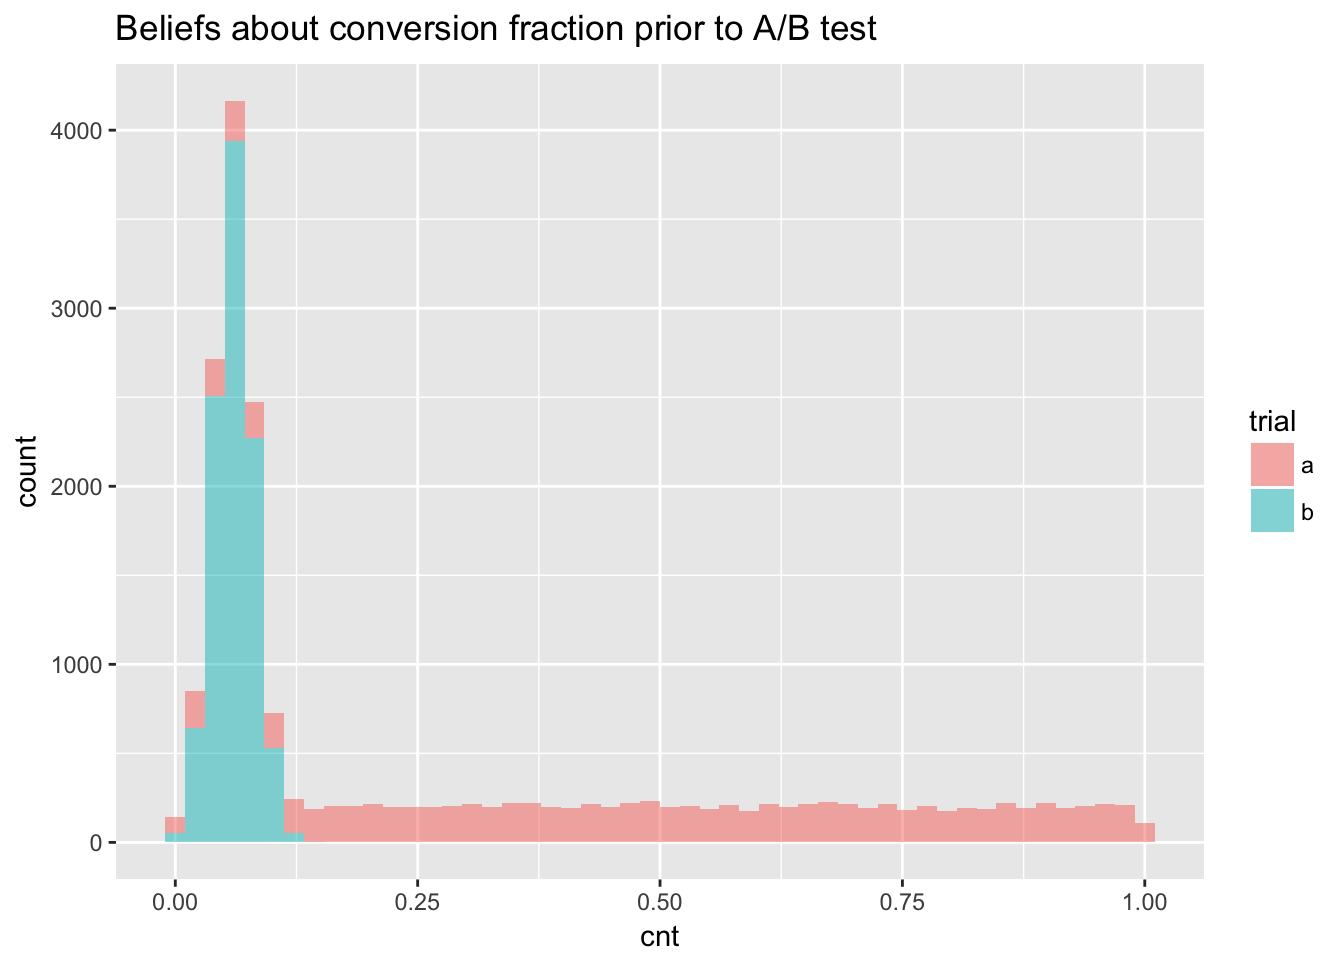
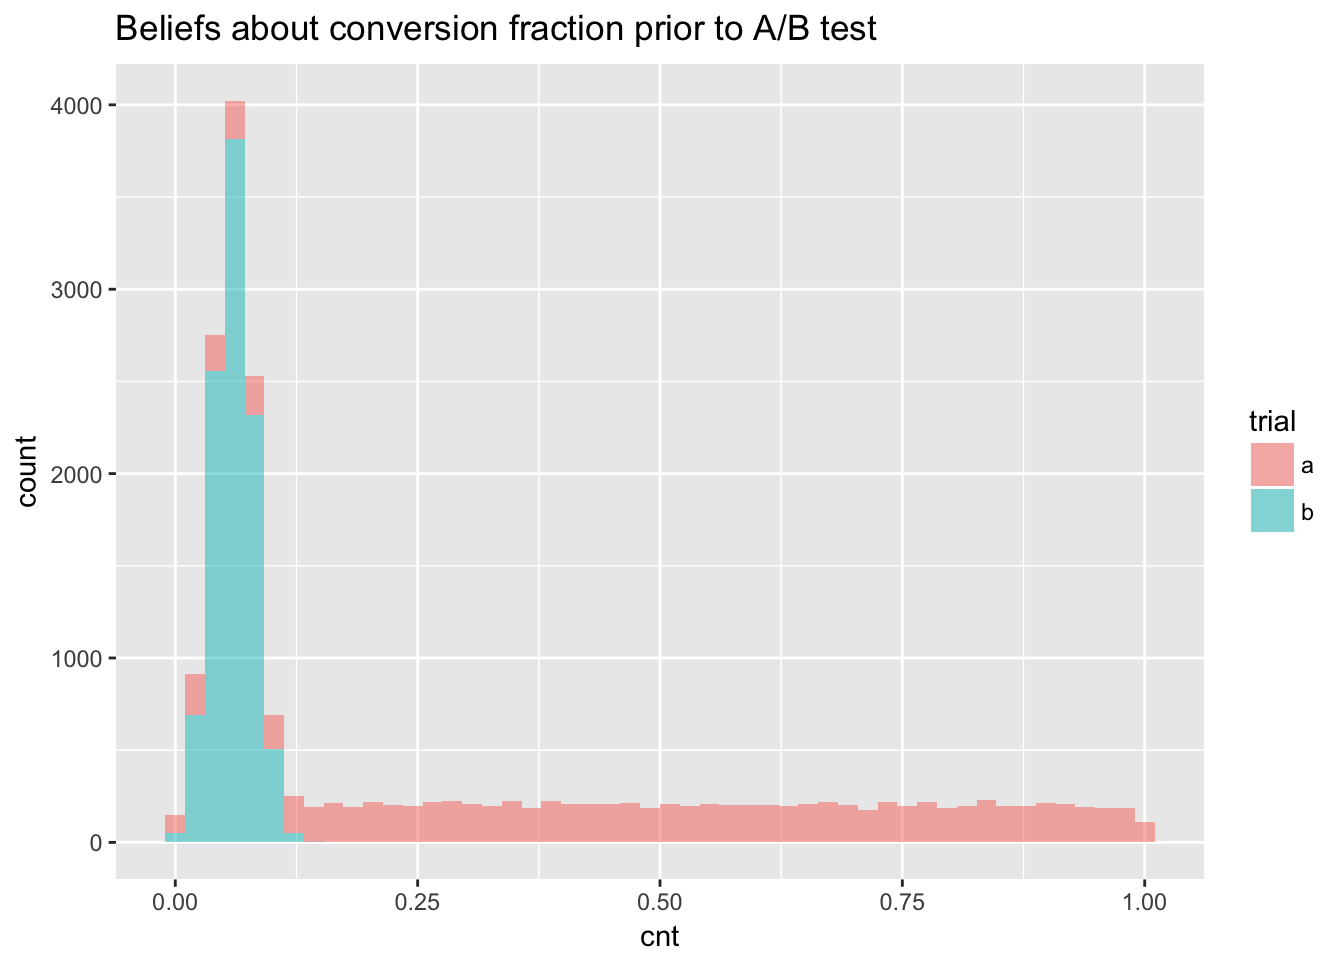
Add more to Advantager

diff --git a/public/2017/11/11/timeseries-analysis-using-r-and-advantager/index.html b/public/2017/11/11/timeseries-analysis-using-r-and-advantager/index.html
@@ -19,6 +19,11 @@
 
 
 
+
+<link href='//cdn.bootcss.com/highlight.js/9.11.0/styles/github.min.css' rel='stylesheet' type='text/css' />
+
+
+
 <link rel="stylesheet" href="../../../../css/fonts.css" media="all">
 <link rel="stylesheet" href="../../../../css/main.css" media="all">
 
@@ -60,7 +65,7 @@
 
   <article class="article">
     
-    <span class="article-duration">0 min read</span>
+    <span class="article-duration">2 min read</span>
     
 
     <h1 class="article-title">Timeseries Analysis Using R and Advantager</h1>
@@ -70,7 +75,38 @@
     
 
     <div class="article-content">
-      
+      <p>In the past, the best way to get stock prices was to use either Google Finance or Yahoo Finance data streams. These have since become difficult to keep up to date and thus another outlet to get this information is AlphaVantager. Following is a simple R implementation to get up to date data. You will be able to thus use this to find the information.</p>
+<p>Above we provide two different libraries that will give us the functionality we need.</p>
+<pre class="r"><code>symbol &lt;- &quot;BTC&quot;
+av_api_key(advantagerKey)
+data &lt;- av_get(symbol = symbol,market = &quot;CNY&quot;, av_fun  = &quot;DIGITAL_CURRENCY_DAILY&quot;) </code></pre>
+<p>In order to make this more useful, we will parameterize these functions in order to make data exploration easier to use when looking at multiple stocks.</p>
+<pre class="r"><code>head(data)</code></pre>
+<pre><code>## # A tibble: 6 x 11
+##    timestamp open..cny. high..cny. low..cny. close..cny. open..usd.
+##       &lt;date&gt;      &lt;dbl&gt;      &lt;dbl&gt;     &lt;dbl&gt;       &lt;dbl&gt;      &lt;dbl&gt;
+## 1 2014-04-01   2813.955   2918.639  2813.955    2859.937   453.4276
+## 2 2014-04-02   2864.585   2972.419  2558.878    2562.464   462.0408
+## 3 2014-04-03   2564.542   2678.989  2420.643    2649.927   413.7083
+## 4 2014-04-04   2652.048   2748.744  2584.584    2697.614   427.6194
+## 5 2014-04-05   2699.672   2814.365  2686.029    2814.365   435.2290
+## 6 2014-04-06   2821.522   2872.924  2782.387    2835.039   454.7936
+## # ... with 5 more variables: high..usd. &lt;dbl&gt;, low..usd. &lt;dbl&gt;,
+## #   close..usd. &lt;dbl&gt;, volume &lt;dbl&gt;, market.cap..usd. &lt;dbl&gt;</code></pre>
+<p>Here we look at the daily open price of the stock for the past 5 years.</p>
+<pre class="r"><code>g &lt;- data %&gt;% ggplot() + 
+  geom_line(aes(timestamp, open..cny. ))+  
+  labs(title = paste(&quot;Daily Open Pricing (&quot;,symbol,&quot;)&quot;), 
+       y = &quot;Open Price (BTC)&quot;, x = &quot;Daily&quot;)
+g</code></pre>
+<p><img src="../../../../post/2017-11-11-timeseries-analysis-using-r-and-advantager_files/figure-html/unnamed-chunk-4-1.png" width="672" /></p>
+<div id="references" class="section level1">
+<h1>References</h1>
+<ul>
+<li><a href="https://www.alphavantage.co/support/#">API Key Access</a></li>
+</ul>
+</div>
+
     </div>
   </article>
 
@@ -114,6 +150,18 @@
 
     </div>
     
+
+
+
+<script src="//cdn.bootcss.com/highlight.js/9.11.0/highlight.min.js"></script>
+
+
+
+<script src="//cdn.bootcss.com/highlight.js/9.11.0/languages/r.min.js"></script>
+<script src="//cdn.bootcss.com/highlight.js/9.11.0/languages/yaml.min.js"></script>
+<script>hljs.configure({languages: []}); hljs.initHighlightingOnLoad();</script>
+
+
 
     
 

diff --git a/content/post/2017-11-11-timeseries-analysis-using-r-and-advantager.html b/content/post/2017-11-11-timeseries-analysis-using-r-and-advantager.html
@@ -11,4 +11,34 @@ tags:
 
 
 
-
+<p>In the past, the best way to get stock prices was to use either Google Finance or Yahoo Finance data streams. These have since become difficult to keep up to date and thus another outlet to get this information is AlphaVantager. Following is a simple R implementation to get up to date data. You will be able to thus use this to find the information.</p>
+<p>Above we provide two different libraries that will give us the functionality we need.</p>
+<pre class="r"><code>symbol &lt;- &quot;BTC&quot;
+av_api_key(advantagerKey)
+data &lt;- av_get(symbol = symbol,market = &quot;CNY&quot;, av_fun  = &quot;DIGITAL_CURRENCY_DAILY&quot;) </code></pre>
+<p>In order to make this more useful, we will parameterize these functions in order to make data exploration easier to use when looking at multiple stocks.</p>
+<pre class="r"><code>head(data)</code></pre>
+<pre><code>## # A tibble: 6 x 11
+##    timestamp open..cny. high..cny. low..cny. close..cny. open..usd.
+##       &lt;date&gt;      &lt;dbl&gt;      &lt;dbl&gt;     &lt;dbl&gt;       &lt;dbl&gt;      &lt;dbl&gt;
+## 1 2014-04-01   2813.955   2918.639  2813.955    2859.937   453.4276
+## 2 2014-04-02   2864.585   2972.419  2558.878    2562.464   462.0408
+## 3 2014-04-03   2564.542   2678.989  2420.643    2649.927   413.7083
+## 4 2014-04-04   2652.048   2748.744  2584.584    2697.614   427.6194
+## 5 2014-04-05   2699.672   2814.365  2686.029    2814.365   435.2290
+## 6 2014-04-06   2821.522   2872.924  2782.387    2835.039   454.7936
+## # ... with 5 more variables: high..usd. &lt;dbl&gt;, low..usd. &lt;dbl&gt;,
+## #   close..usd. &lt;dbl&gt;, volume &lt;dbl&gt;, market.cap..usd. &lt;dbl&gt;</code></pre>
+<p>Here we look at the daily open price of the stock for the past 5 years.</p>
+<pre class="r"><code>g &lt;- data %&gt;% ggplot() + 
+  geom_line(aes(timestamp, open..cny. ))+  
+  labs(title = paste(&quot;Daily Open Pricing (&quot;,symbol,&quot;)&quot;), 
+       y = &quot;Open Price (BTC)&quot;, x = &quot;Daily&quot;)
+g</code></pre>
+<p><img src="/post/2017-11-11-timeseries-analysis-using-r-and-advantager_files/figure-html/unnamed-chunk-4-1.png" width="672" /></p>
+<div id="references" class="section level1">
+<h1>References</h1>
+<ul>
+<li><a href="https://www.alphavantage.co/support/#">API Key Access</a></li>
+</ul>
+</div>

diff --git a/public/2017/11/30/exploring-the-book-of-esther-in-the-tidy-verse/index.html b/public/2017/11/30/exploring-the-book-of-esther-in-the-tidy-verse/index.html
@@ -60,7 +60,7 @@
 
   <article class="article">
     
-    <span class="article-duration">0 min read</span>
+    <span class="article-duration">1 min read</span>
     
 
     <h1 class="article-title">Exploring the Book of Esther in the Tidy Verse</h1>
@@ -70,7 +70,10 @@
     
 
     <div class="article-content">
-      
+      <div id="in-progress" class="section level1">
+<h1>In Progress</h1>
+</div>
+
     </div>
   </article>
 

diff --git a/public/2017/09/29/ab-testing-in-r-from-scratch/index.html b/public/2017/09/29/ab-testing-in-r-from-scratch/index.html
@@ -217,7 +217,7 @@ ggplot(trailCnt, aes(cnt, fill=trial)) +
 <p><img src="../../../../post/2017-09-29-ab-testing-in-r-from-scratch_files/figure-html/unnamed-chunk-9-1.png" width="672" /></p>
 <pre class="r"><code>a &lt;- a_estimates$cnt &gt; b_estimates$cnt
 sum(a == TRUE)/length(a)</code></pre>
-<pre><code>## [1] 0.318</code></pre>
+<pre><code>## [1] 0.355</code></pre>
 </div>
 </div>
 

diff --git a/content/post/2017-09-29-ab-testing-in-r-from-scratch.html b/content/post/2017-09-29-ab-testing-in-r-from-scratch.html
@@ -154,6 +154,6 @@ ggplot(trailCnt, aes(cnt, fill=trial)) +
 <p><img src="/post/2017-09-29-ab-testing-in-r-from-scratch_files/figure-html/unnamed-chunk-9-1.png" width="672" /></p>
 <pre class="r"><code>a &lt;- a_estimates$cnt &gt; b_estimates$cnt
 sum(a == TRUE)/length(a)</code></pre>
-<pre><code>## [1] 0.318</code></pre>
+<pre><code>## [1] 0.355</code></pre>
 </div>
 </div>

diff --git a/content/post/2017-11-30-exploring-the-book-of-esther-in-the-tidy-verse.html b/content/post/2017-11-30-exploring-the-book-of-esther-in-the-tidy-verse.html
@@ -11,4 +11,6 @@ tags: []
 
 
 
-
+<div id="in-progress" class="section level1">
+<h1>In Progress</h1>
+</div>
